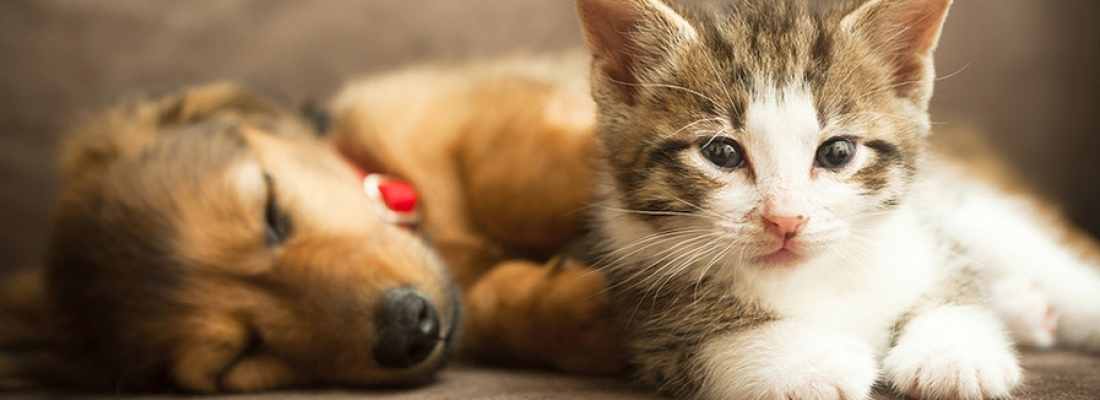
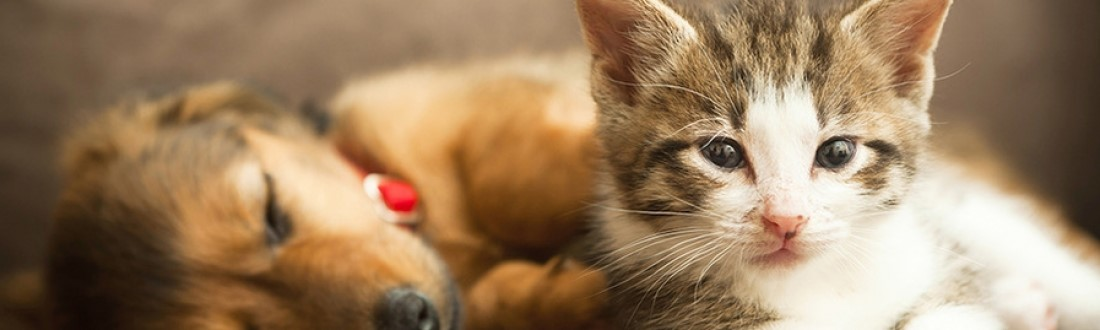
Altera README e imagens

diff --git a/src/css/index.css b/src/css/index.css
@@ -9,3 +9,11 @@
 .copyright {
     background-color: rgb(229, 152, 52) !important;
 }
+
+#jumbotrons {
+    height: 486.2px !important;
+}
+
+#jumbotrons .jumbotron {
+    height: 486.2px !important;
+}

diff --git a/README.md b/README.md
@@ -1,10 +1,9 @@
-# Projeto ONG Cães e Gatos
-
+# Projeto Instituto Riggato - ONG de Cães e Gatos
 ## Autores
 
 Lucas Righetto, Felipe Brochini, Henrique Christofoletti e Vinícius Pereira
-
 ## Hospedagem
 
 - Domínio: www.instituto-riggato.org.br
 - Hospedagem escolhida: GoDaddy?
+- Preço: ...
